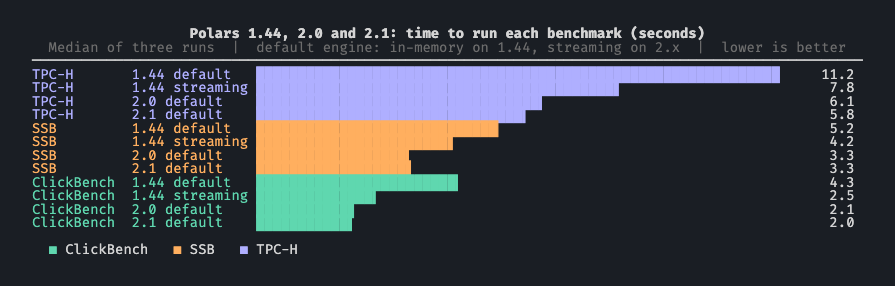
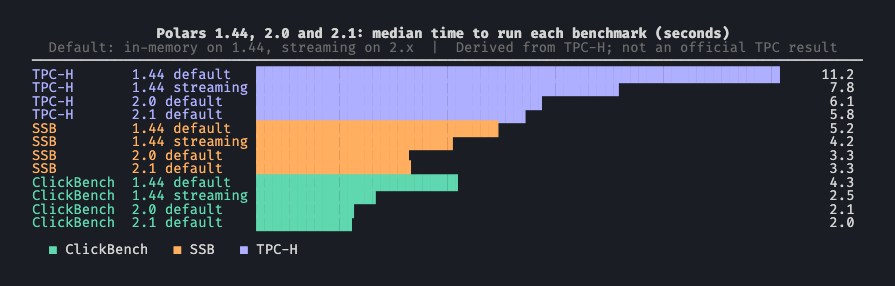
docs(blog): say the Polars 2.x post's TPC figures are not official TPC results (#239)
The methodology requires the derived-result wording wherever a TPC-H or TPC-DS figure appears. The post and its two charts showed such figures without it. Test setup now states it, and each chart carries it in its subtitle.

Changed region(s): [[0.0603, 0.0839, 0.9352, 0.1958]]

diff --git a/drafts/platform-deep-dives/drafts/polars-2-version-matrix.md b/drafts/platform-deep-dives/drafts/polars-2-version-matrix.md
@@ -158,6 +158,7 @@ Our benchmarks cannot make this check for you. Each query either sorts its outpu
 - **Benchmarks**: TPC-H, TPC-DS, SSB and ClickBench at scale factor 10, read from Parquet files
 - **Method**: 10 threads. Each query ran once to warm up and once for timing. We ran each benchmark three times, in random order.
 - **Checks**: at a small data size we compared query results with DuckDB. At scale factor 10 we compared row counts.
+- **TPC**: the TPC-H and TPC-DS figures are derived from those benchmarks. They do not comply with the TPC specifications, are not official TPC results, and must not be compared with official TPC results.
 
 We also ran three older 1.x releases. The [findings](https://github.com/BenchBox-dev/BenchBox/blob/3e09d4f43bbfb823acd82dc1402dd4db9663c634/_project/analysis/polars-version-matrix/findings.md) list every result. The [methodology](https://github.com/BenchBox-dev/BenchBox/blob/3e09d4f43bbfb823acd82dc1402dd4db9663c634/_project/analysis/polars-version-matrix/methodology.md) explains the rules. The [analysis JSON](https://github.com/BenchBox-dev/BenchBox/blob/3e09d4f43bbfb823acd82dc1402dd4db9663c634/_project/analysis/polars-version-matrix/polars-version-matrix-analysis.json) holds the numbers.
 
